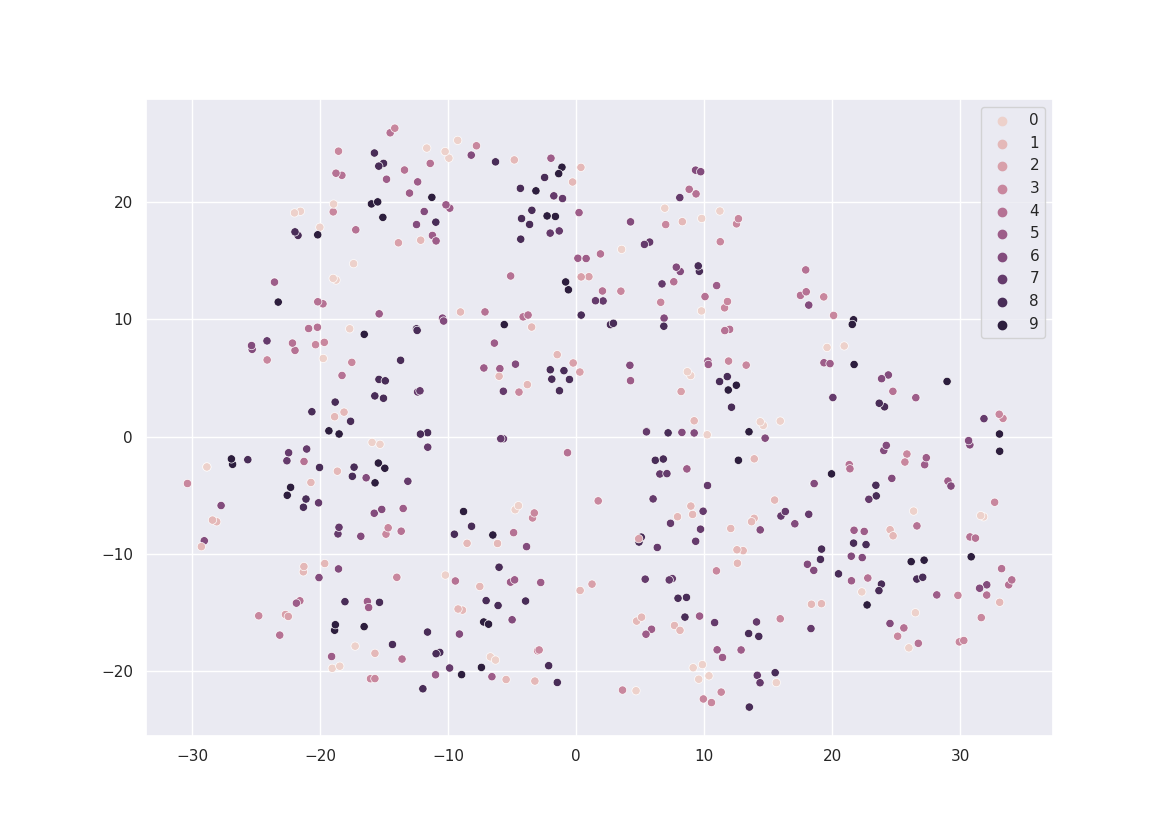
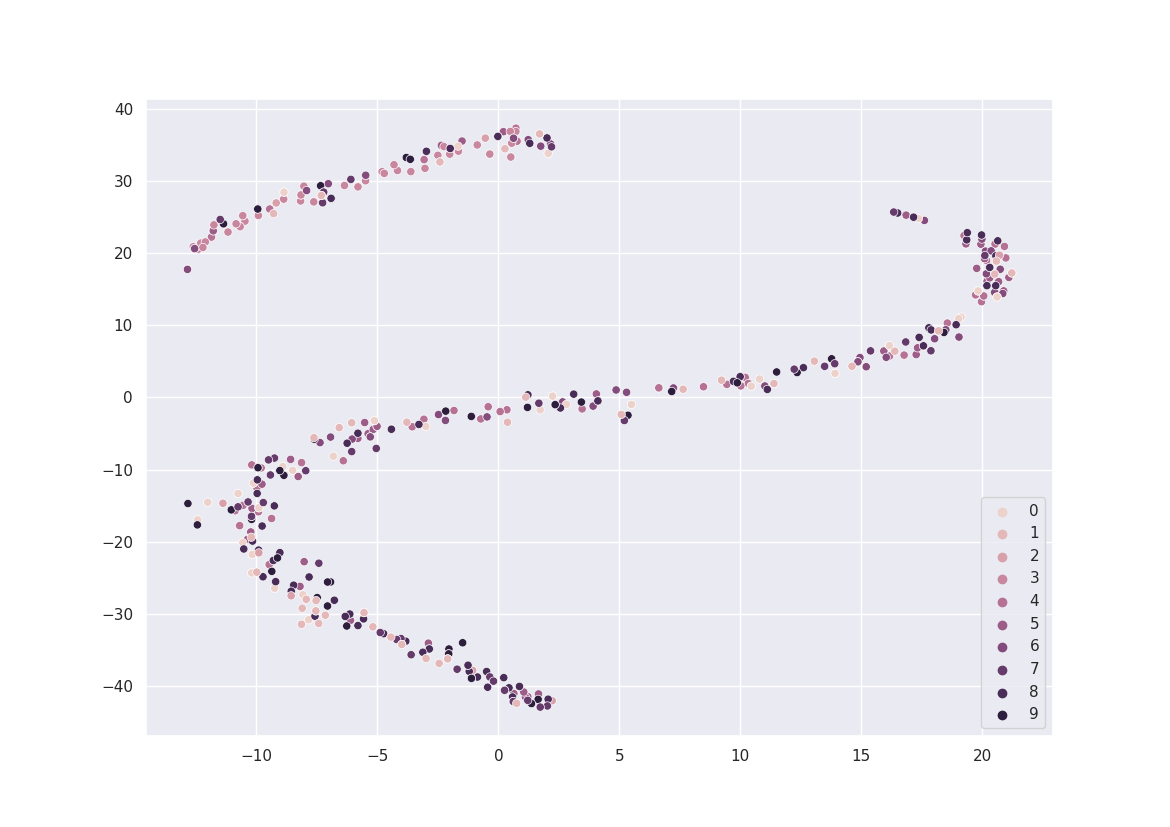
more validation metrics, change augmentation

diff --git a/SSL_MacroMolecule_Real/downstream.py b/SSL_MacroMolecule_Real/downstream.py
@@ -10,6 +10,7 @@ import time
 import warnings
 
 from sklearn.manifold import TSNE
+from sklearn.cluster import KMeans
 import seaborn as sns
 import numpy as np
 from matplotlib import pyplot as plt
@@ -267,10 +268,13 @@ def main_worker(gpu, ngpus_per_node, args):
     else:
         # MoCo v1's aug: the same as InstDisc https://arxiv.org/abs/1805.01978
         augmentation = [
-            #Random3DRotate(),
-            ToTensor(),
-            transforms.RandomResizedCrop(32, scale=(0.5, 1.), ratio=(1.,1.)),
-            transforms.RandomAffine(degrees=45, translate=(0.1, 0.1), scale=(0.9, 1.1))
+            tio.transforms.RandomFlip(flip_probability=0.6),
+            tio.transforms.RandomAffine(degrees=45,translation=0.1),
+ 
+            #ToTensor(),
+            #transforms.RandomResizedCrop(32, scale=(0.5, 1.), ratio=(1.,1.)),
+            #transforms.RandomAffine(degrees=45, translate=(0.1, 0.1), scale=(0.9, 1.1))
+            
             #ToTensor()
             # tio.transforms.RandomFlip(flip_probability=0.5, axes=(0,1,2)),
             #tio.transforms.RandomFlip(flip_probability=0.5),
@@ -317,8 +321,19 @@ activation = {}
 def get_activation(name):
     def hook(model, inp, out):
         activation[name] = out#out.detach()
-        print(out[0].shape)
+        # print(out[0].shape) # check the size of our feature, which should just be 1024
     return hook
+
+def getTopTwoCats(d):
+    m = (-1,0);
+    n = (-1,0);
+    for cluster in d:
+        if(d[cluster] >= m[1]):
+            n = m
+            m = (cluster, d[cluster])
+        elif(d[cluster] >= n[1]):
+            n = (cluster, d[cluster])
+    return m,n
 
 def cluster(train_loader, temp_loader, model, criterion, optimizer, epoch, args):
     batch_time = AverageMeter('Time', ':6.3f')
@@ -371,6 +386,23 @@ def cluster(train_loader, temp_loader, model, criterion, optimizer, epoch, args)
 
         if i % args.print_freq == 0:
             progress.display(i)
+
+    # kmeans clustering
+    kmeans = KMeans(10)
+    myData = torch.stack(myData).cpu().detach().numpy()
+    print(myData.shape)
+    clusters = kmeans.fit_predict(myData)
+    clusterCounts = {}
+    for i in range(10):
+        clusterCounts[i] = {}
+    for i, c in enumerate(clusters):
+        print(f'A: {y[i]}, C: {c}')
+        clusterCounts[y[i].item()][c.item()] = clusterCounts[y[i].item()].get(c.item(),0) + 1
+    for c in clusterCounts:
+        ((top,topC),(sec,secC)) = getTopTwoCats(clusterCounts[c])
+        print(f'{c}: {top}: {topC/50.0}, {sec}:{secC/50.0}')
+        #print(f'{c}: {clusterCounts[c][c]/50.0}, {clusterCounts[c]}')
+    
     temps = []
     tempLabels = []
     for i, (images, label) in enumerate(temp_loader):
@@ -386,32 +418,11 @@ def cluster(train_loader, temp_loader, model, criterion, optimizer, epoch, args)
         ft = activation['fc2']
         temps.append(ft[0])
         tempLabels.append(label[0])
-        #temps.append(output[1])
-        #tempLabels.append(label[1])
-        
-        #loss = criterion(output, target)
-
-        # acc1/acc5 are (K+1)-way contrast classifier accuracy
-        # measure accuracy and record loss
-        #acc1, acc5 = accuracy(output, target, topk=(1, 9))
-        #losses.update(loss.item(), images[0].size(0))
-        #top1.update(acc1[0], images[0].size(0))
-        #top5.update(acc5[0], images[0].size(0))
-
-        # measure elapsed time
-        #batch_time.update(time.time() - end)
-        #end = time.time()
-
-        #if i % args.print_freq == 0:
-        #    progress.display(i)
- 
 
     # TSNE visualization
     tsne = TSNE()
-    myData = torch.stack(myData).cpu().detach().numpy()
+    #myData = torch.stack(myData).cpu().detach().numpy()
     y = torch.stack(y).cpu().detach().numpy()
-    #myData = myData.numpy()
-    #print(f'shape: {myData.shape}')
     X_embedded = tsne.fit_transform(myData)
     sns_plot = sns.scatterplot(X_embedded[:,0], X_embedded[:,1], hue=y, legend='full')
     plt.savefig('output.png') 

diff --git a/SSL_MacroMolecule_Real/main_moco.py b/SSL_MacroMolecule_Real/main_moco.py
@@ -251,10 +251,12 @@ def main_worker(gpu, ngpus_per_node, args):
         # MoCo v2's aug: similar to SimCLR https://arxiv.org/abs/2002.05709
         augmentation = [
             tio.transforms.RandomFlip(flip_probability=0.6),
-            tio.transforms.RandomGamma(log_gamma=(-0.3, 0.3), p=0.7),
-            tio.transforms.RandomBlur(p=0.5)
+            #tio.transforms.RandomGamma(log_gamma=(-0.3, 0.3), p=0.7),
+            #tio.transforms.RandomBlur(p=0.5)
+            
+            
             #tio.transforms.RandomGamma()
-            # tio.transforms.RandomAffine(),
+            tio.transforms.RandomAffine(degrees=45,translation=0.1),
             # tio.transforms.RandomSwap(num_iterations=5),
             # tio.transforms.ZNormalization()
         ]
